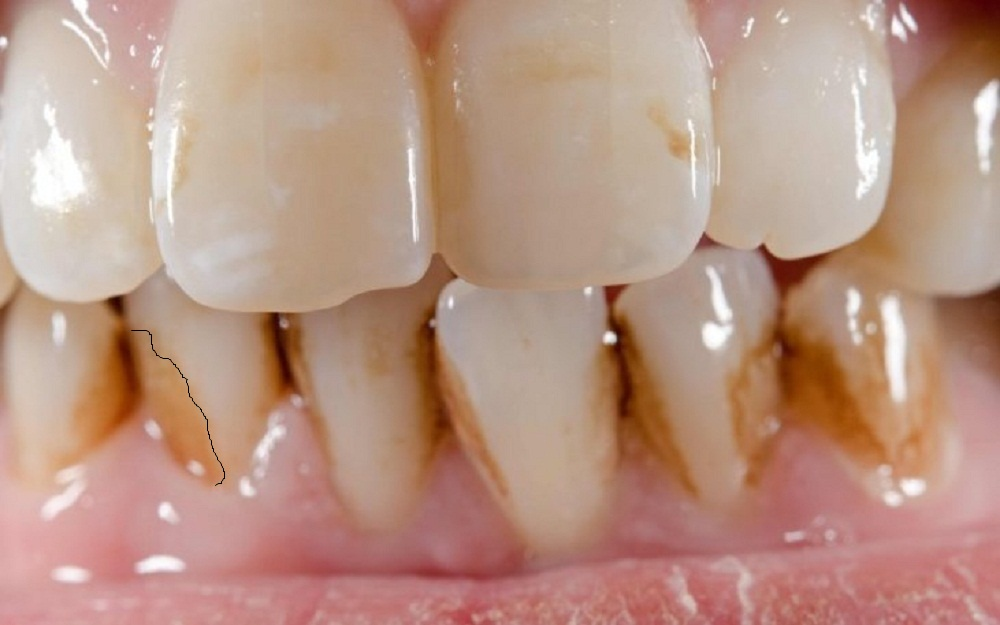
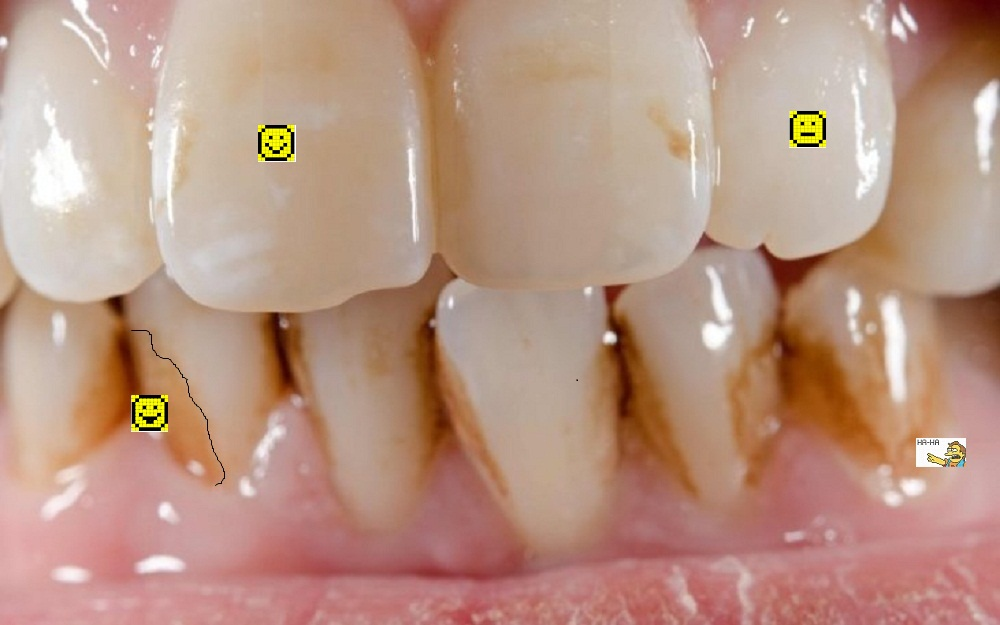
adicion de imagen y area

diff --git a/index.html b/index.html
@@ -56,8 +56,9 @@
 				<img src="imagenes/banner1.jpg" alt="banner1" usemap="#mapa">
 					<map name="mapa">
 						<area id="conejo" shape="RECTANGLE" coords="172, 1, 416, 280" href="https://www.fpclaudiogaleno.es/blog/como-afecta-el-tabaco-a-los-dientes">
-						<area id="lateral" shape="RECTANGLE" coords="723,2,875,218" href="https://wa.me/59160921814?text=hola%20necesito%20informacion%20porfavor">
+						<area id="lateral" shape="RECTANGLE" coords="723,2,875,218" href="https://wa.me/59169867839?text=hola%20necesito%20informacion%20porfavor">
 						<area id="caries izquierda" shape="RECTANGLE" coords="93, 332, 206, 472" href="https://www.google.com">	
+						<area id="ha,ha" shape="RECTANGLE" coords="916,438,966,467" href="https://wa.me/59160921814?text=hola%20quisiera%20agendar%20una%20cita%20porfavor">
 						<area id="caries" shape="RECTANGLE" coords="" href="">
 						
 					</map>
